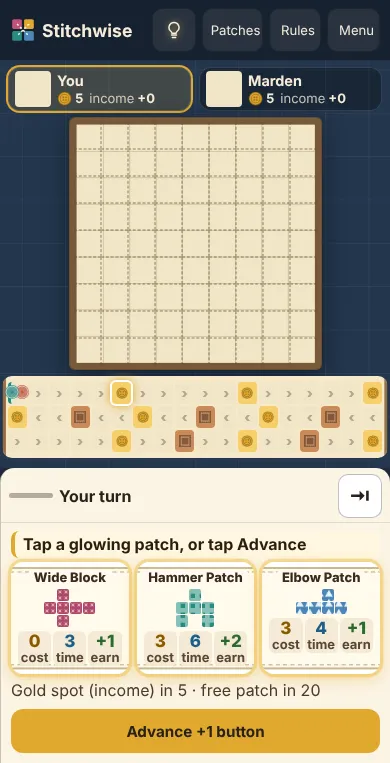
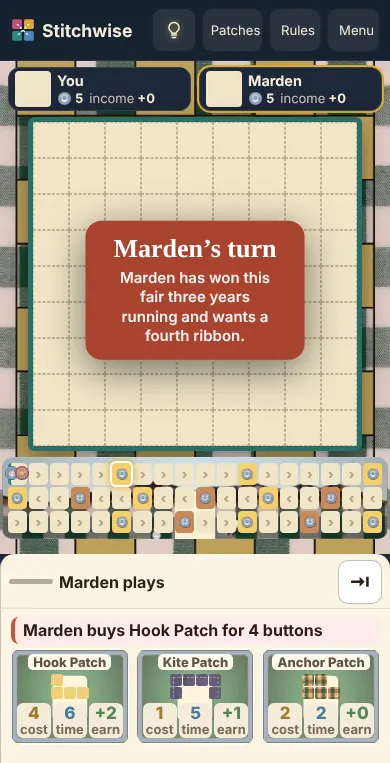
Stitchwise: story map header readable over the free map art, after-shots with free art, PLAYABLE.md addenda

diff --git a/games-src/stitchwise/src/head.html b/games-src/stitchwise/src/head.html
@@ -240,5 +240,6 @@ html.sm .offer .ofx{grid-template-columns:1fr;width:auto;background:#fffaf0;bord
 .pstrip,.oppmini{background:#1d2738!important}
 #tinfo{background:#1d2738;opacity:1!important;border-radius:8px;padding:2px 10px;width:max-content;max-width:100%;margin:4px auto 0}
 .offer.no.cant{opacity:.65}
+.gxc-head{background:#2a1d10f2!important;border-radius:0 0 14px 14px}.gxc-head .gxc-ib{background:#3d2c1a!important;color:#fff8e8!important;border-color:#fff3!important}.gxc-head .gxc-htitle b{color:#fff8e8!important}
 </style>
 </head>

diff --git a/games-src/stitchwise/PLAYABLE.md b/games-src/stitchwise/PLAYABLE.md
@@ -21,11 +21,26 @@ plain words, recognition over recall, feedback for every action).
 Also found and fixed on the way: in Story the goal line pushed Rotate / Sew it on below the screen at 390x763 (smoke `--story2` caught it):
 the dock is now compact (track hint hidden in Story on phone, 1-line prompts), so the action row is always on screen.
 
-## Gate (local build with temp art, served over http)
+## Addenda 1-3 and the free art kit
+- **ADDENDUM 1, tutorial = a real guided game:** chapter 1 *Your first turn* (6 spotlit action steps), then chapters 2 *Pay day*,
+  3 *Fair surprises*, 4 *The judging*: the same game played to the result screen, with Aunt Wren's line in the panel the first time
+  each rule happens. Checklist and honest gaps: `TUTORIAL-COVERAGE.md`. `playable/play.js <size> tut` plays the whole game by taps
+  and asserts every coverage line was shown (PASS 390x763 and 1440x860).
+- **ADDENDUM 2, rules:** `rules-check/stitchwise.md` lists WRONG 0 / MISSING 0, so rules fixed 0/0. The 3 SIMPLIFIED items are now
+  stated in How to play ("Simplified on purpose").
+- **ADDENDUM 3, narrative:** the tutorial is the story's prologue (guide Aunt Wren with her portrait when art exists, rival Marden with
+  a reason; every step has a story reason + reaction; the judging has Aunt Wren's verdict). Story chapters keep their intros/outros and
+  now have loss outros (`outroLose`, bosses speak); Quick game has a flavour intro per opponent and a result line. All text in
+  `campaign.json` (`story` + chapters). Cast and arc: `STORY.md`.
+- **Free art kit (installed with --force for the tests):** the `quilt-frame` picture draws a cream panel that does not line up with
+  the 9x9 grid, so that slot is switched off (code frame is clearer; slot kept for real art). Text over the busy table and the light
+  map got solid backing (player pills, track hint, opponent quilt panel, Story map header). Every other free picture is shown.
+
+## Gate (local build, run without and with the free art kit, served over http)
 - `build-all.py --quick stitchwise` PASS (11/11 scenarios). `rules-test.js 100` PASS.
 - `playable/play.js` (fresh storage, animations ON, only centre taps on visible, uncovered UI): tutorial-to-end PASS 390x763 and 1440x860;
-  Quick game to the result PASS 390x763; Story stage 1 (map → Play → intro → game → reveal → Story result) PASS 390x763. 0 console errors.
-- ui-audit A-F: phone 0/0/0/0/0/0, phone-s 0/0/0/0/0/0, pc 0/0/0/0/0/0.
+  tutorial = whole guided game to the result with all coverage lines; Quick game to the result PASS 390x763; Story stage 1 (map → Play → intro → game → reveal → Story result) PASS 390x763. 0 console errors.
+- ui-audit A-F: phone 0/0/0/0/0/0, phone-s 0/0/0/0/0/0, pc 0/0/0/0/0/0 (without and with the free art).
 - Existing tests still PASS: smoke (390x763, 375x553 --full, 1440x860 --full, --tut, --story2 at 390x763 / 844x390 / 1440x860), menu-test, first-launch-test (updated: step 1 is now an action).
 
 ## Notes / not done
